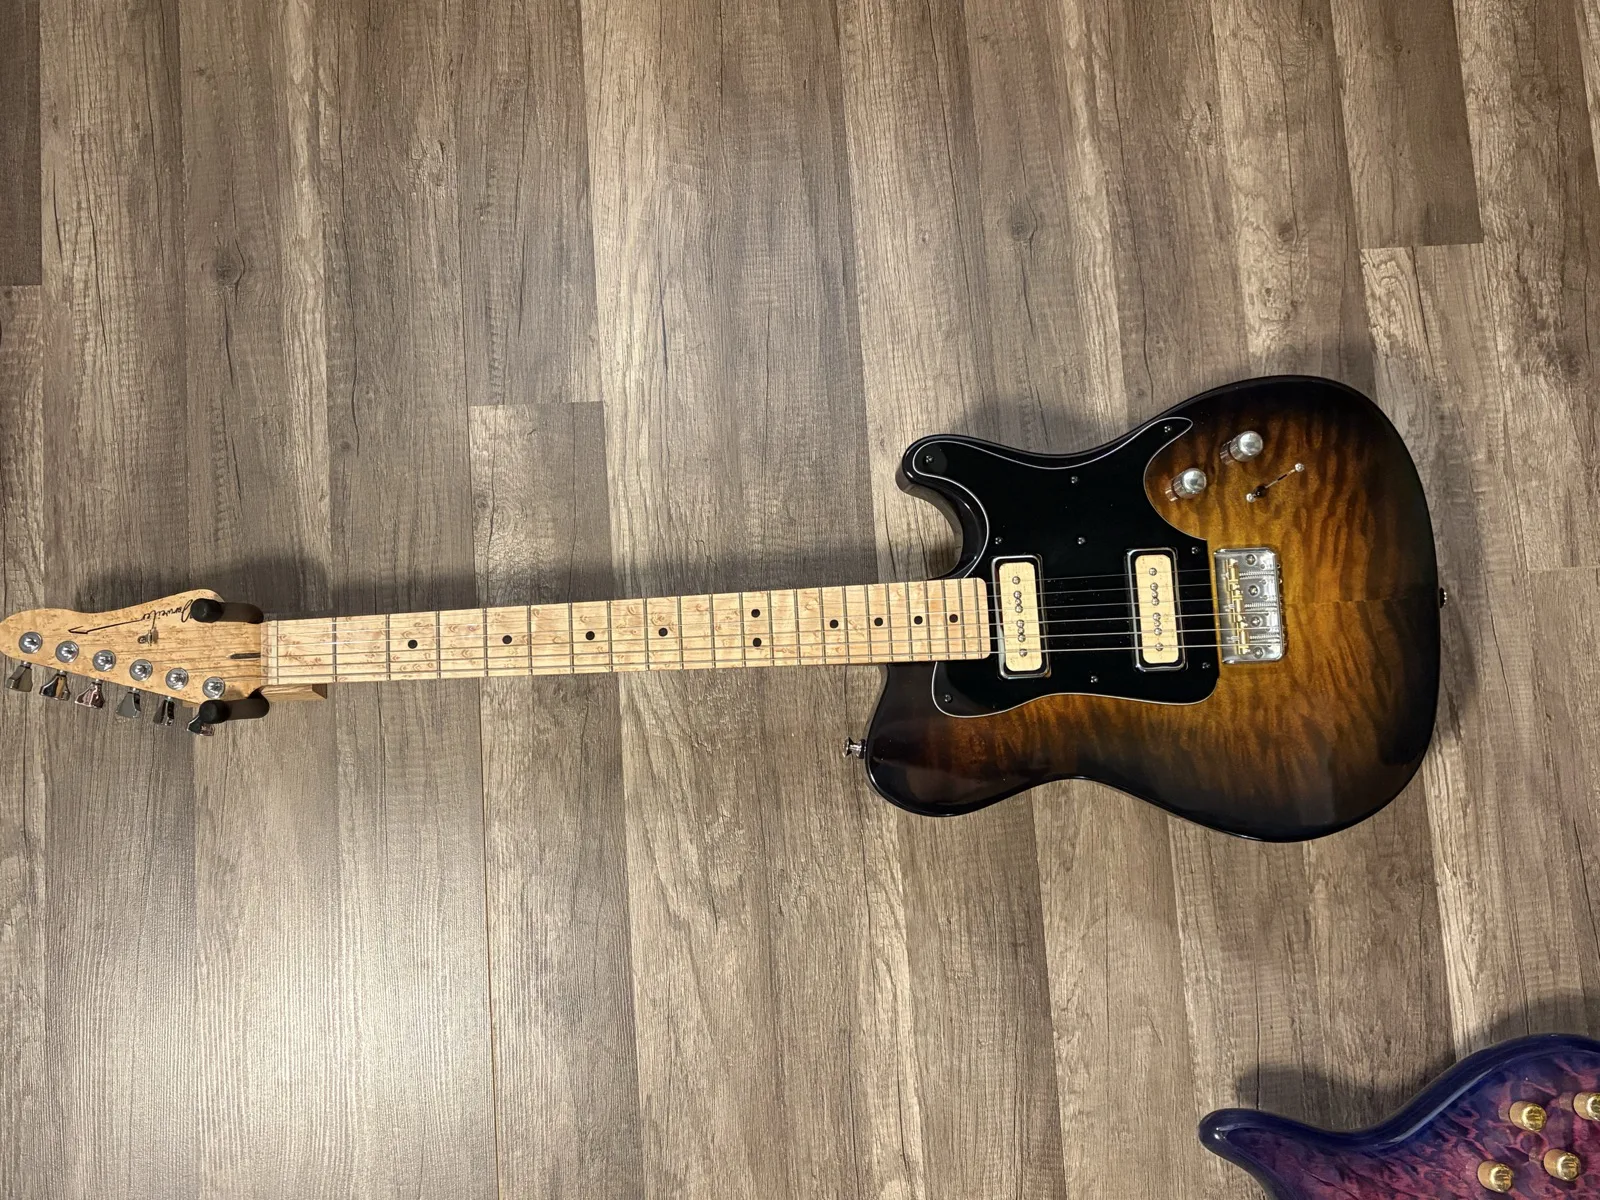
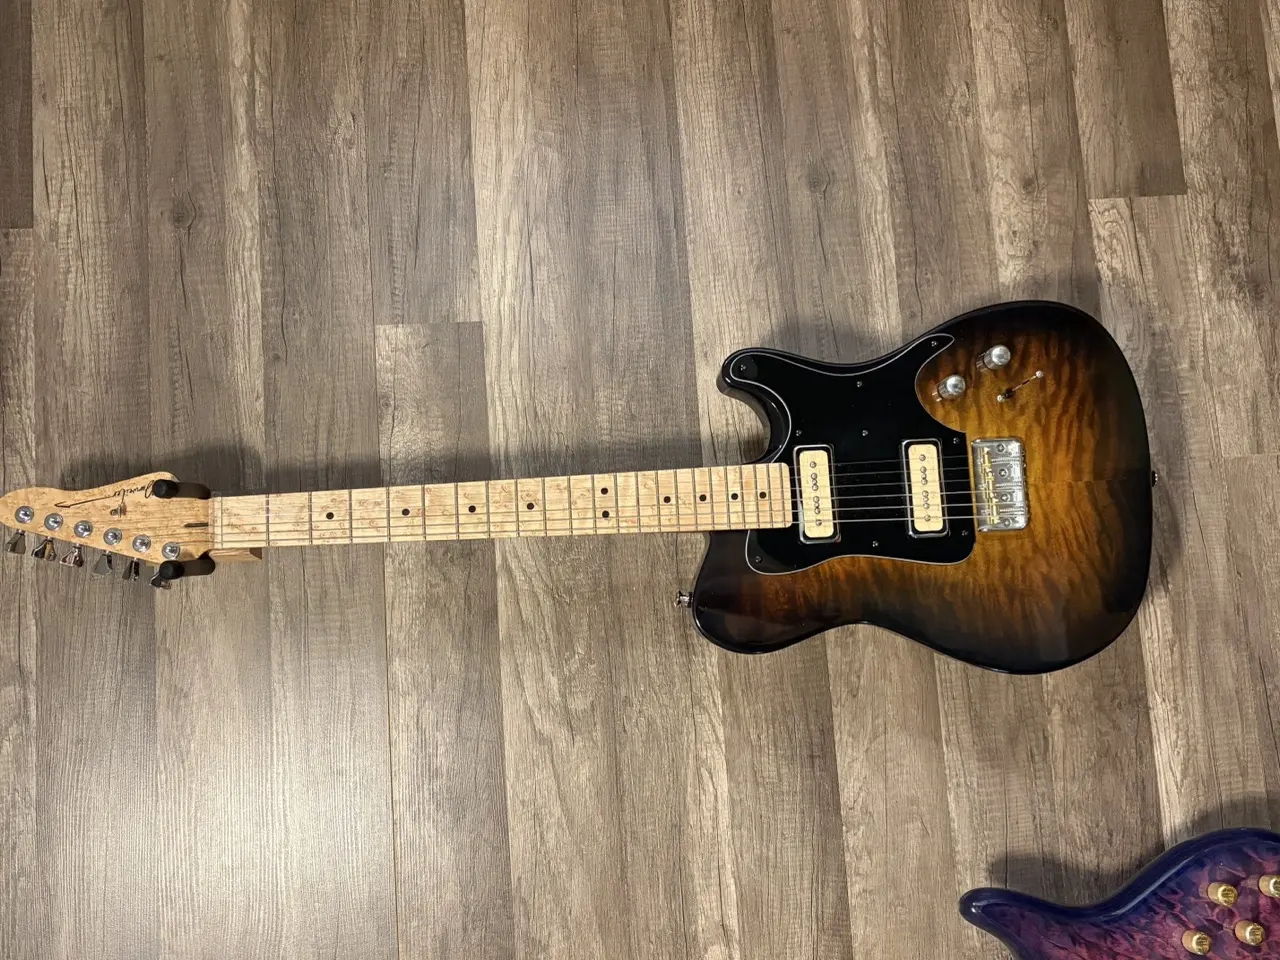
Speed up Quilted Maple P90 gallery
The display images were oversized: sips -Z scales the long edge, and these
photos are landscape, so they rendered at 1600x1200 (~520-763 KB) for a
frame that is only ~475px wide. Clicking a thumbnail started a cold fetch
of a half-megabyte JPEG, and the lightbox opened empty while its 1 MB
large image downloaded.

- Resize display images to 1280px wide (~45% smaller) and re-encode webp
- Serve the main image through <picture> so it uses webp (115 KB vs 520 KB)
- Prefetch the adjacent images so thumbnail clicks swap from cache
- Lightbox now shows the loaded display image immediately, then upgrades
  to the full-size one once it arrives

Changed region(s): [[0.0, 0.4688, 0.8125, 0.5938], [0.9062, 0.9062, 1.0, 1.0], [0.75, 0.9375, 0.7812, 0.9688]]

diff --git a/guitars/quilted-maple-p90.html b/guitars/quilted-maple-p90.html
@@ -69,7 +69,10 @@
                                 <path d="M14.5 5.5L8 12l6.5 6.5" />
                             </svg>
                         </button>
-                        <img id="mainImg" src="images/guitar12/display/IMG_5835.jpg" alt="Quilted Maple P90 body at an angle, showing the tobacco burst over quilted maple" decoding="async">
+                        <picture>
+                            <source id="mainImgWebp" srcset="images/guitar12/display/IMG_5835.webp" type="image/webp">
+                            <img id="mainImg" src="images/guitar12/display/IMG_5835.jpg" alt="Quilted Maple P90 body at an angle, showing the tobacco burst over quilted maple" fetchpriority="high" decoding="async">
+                        </picture>
                         <button class="gallery-nav gallery-nav--next" type="button" aria-label="Next image" onclick="stepImage(1)">
                             <svg viewBox="0 0 24 24" aria-hidden="true">
                                 <path d="M9.5 5.5L16 12l-6.5 6.5" />
@@ -237,14 +240,29 @@
             currentImageIndex = 0;
         }
 
+        const mainImgWebp = document.getElementById('mainImgWebp');
+        const toWebp = src => src.replace(/\.jpg$/, '.webp');
+
+        // Warm the browser cache so a click swaps in an already-decoded image.
+        function prefetch(index) {
+            const thumb = galleryThumbnails[(index + galleryThumbnails.length) % galleryThumbnails.length];
+            if (!thumb) return;
+            const src = thumb.dataset.displaySrc;
+            if (!src) return;
+            new Image().src = toWebp(src);
+        }
+
         function changeImage(element) {
             if (!element) return;
             const displaySrc = element.dataset.displaySrc || element.dataset.fullSrc;
+            if (mainImgWebp) mainImgWebp.srcset = toWebp(displaySrc);
             mainImg.src = displaySrc;
             currentFullSrc = element.dataset.fullSrc || displaySrc;
             galleryThumbnails.forEach(thumb => thumb.classList.remove('active'));
             element.classList.add('active');
             currentImageIndex = galleryThumbnails.indexOf(element);
+            prefetch(currentImageIndex + 1);
+            prefetch(currentImageIndex - 1);
         }
 
         function stepImage(direction) {
@@ -255,9 +273,19 @@
         }
 
         function openLightbox(imgSrc) {
+            const lightboxImg = document.getElementById('lightboxImg');
             document.getElementById('lightbox').classList.add('active');
-            document.getElementById('lightboxImg').src = imgSrc;
             document.body.style.overflow = 'hidden';
+            // Show the already-loaded display image right away, then swap in the
+            // full-size one once it has downloaded, so the box is never empty.
+            lightboxImg.src = mainImg.currentSrc || mainImg.src;
+            const full = new Image();
+            full.onload = () => {
+                if (document.getElementById('lightbox').classList.contains('active')) {
+                    lightboxImg.src = imgSrc;
+                }
+            };
+            full.src = imgSrc;
         }
 
         function closeLightbox() {
